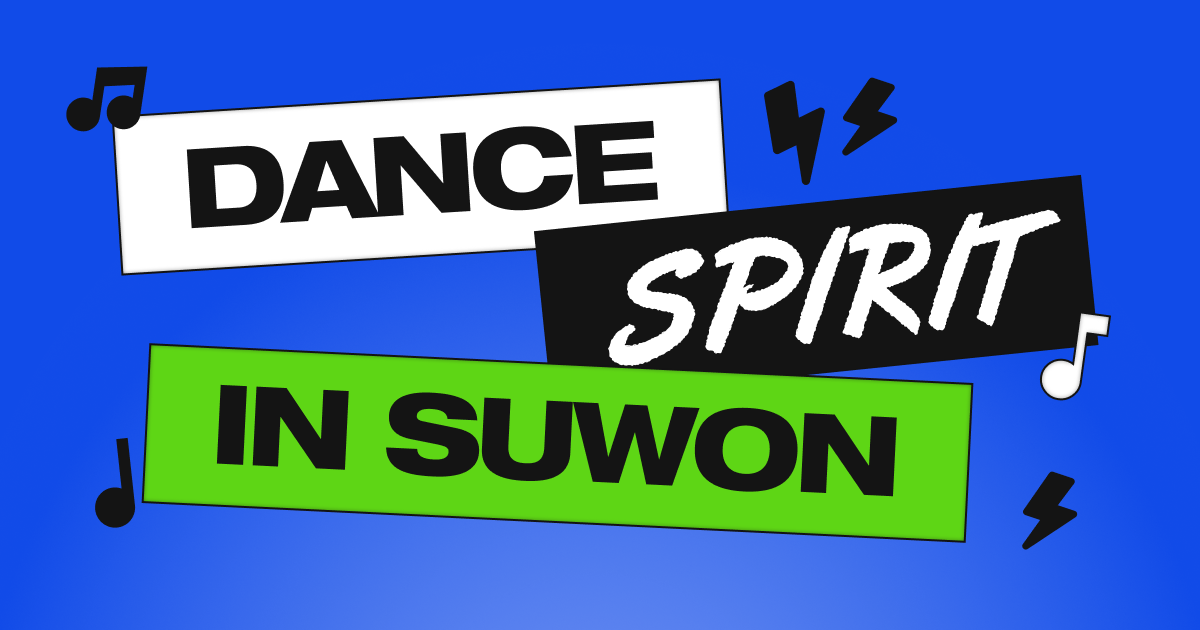
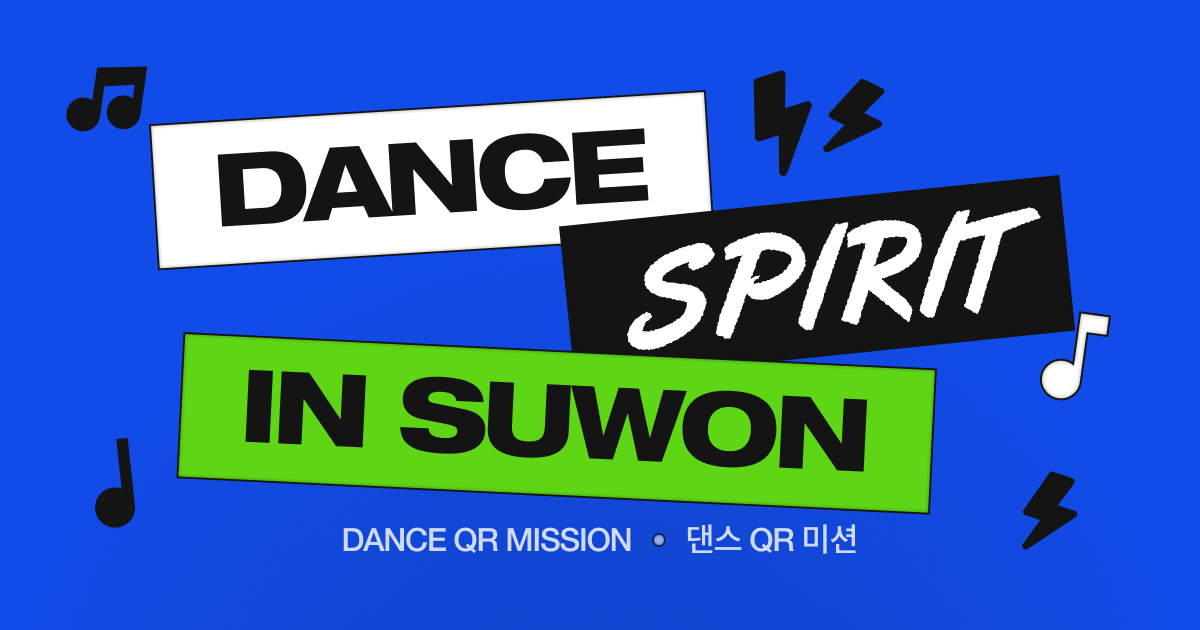
[feat] README 이미지 추가 및 오픈그래피 이미지 수정

diff --git a/README.md b/README.md
@@ -1,3 +1,5 @@
 # 2026 Dance Spirit in Suwon
 
 해당 파일은 2026 Dance Spirit in Suwon을 위한 인터랙티브 댄스 미션 웹사이트입니다. 참가자는 각 댄스 장르별 ZONE 입장 코드를 입력하고 퀴즈를 푼 뒤, K-pop 안무 추리 미션과 미션지를 완성할 수 있습니다.
+
+![서비스 소개](./introduce_service.png)
